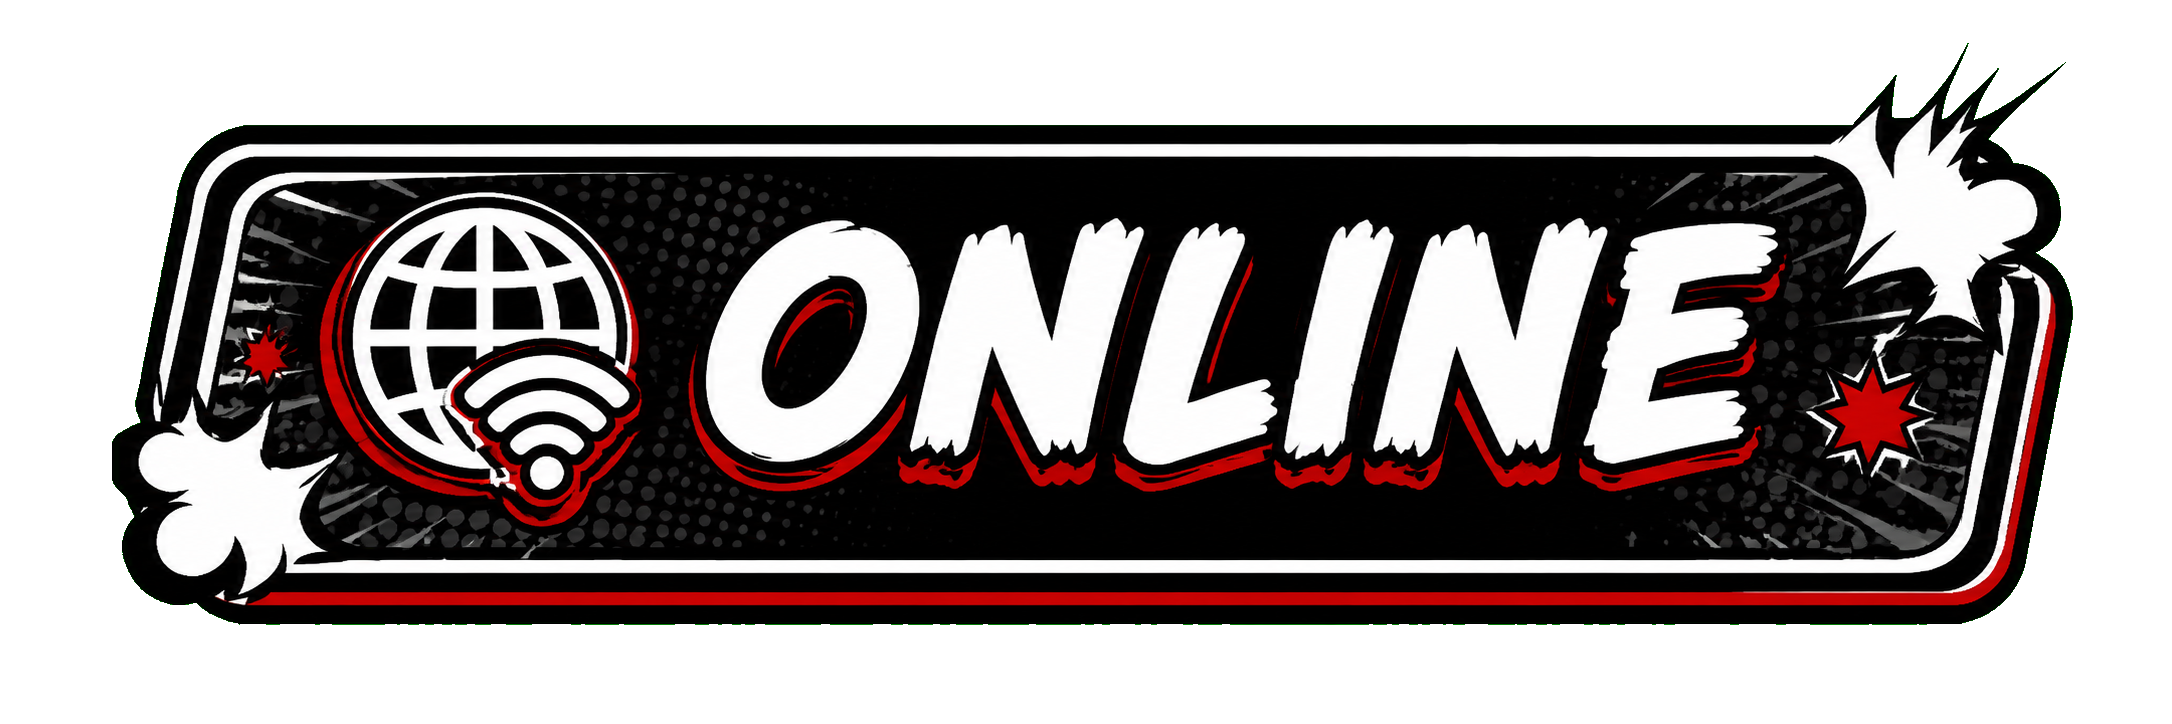
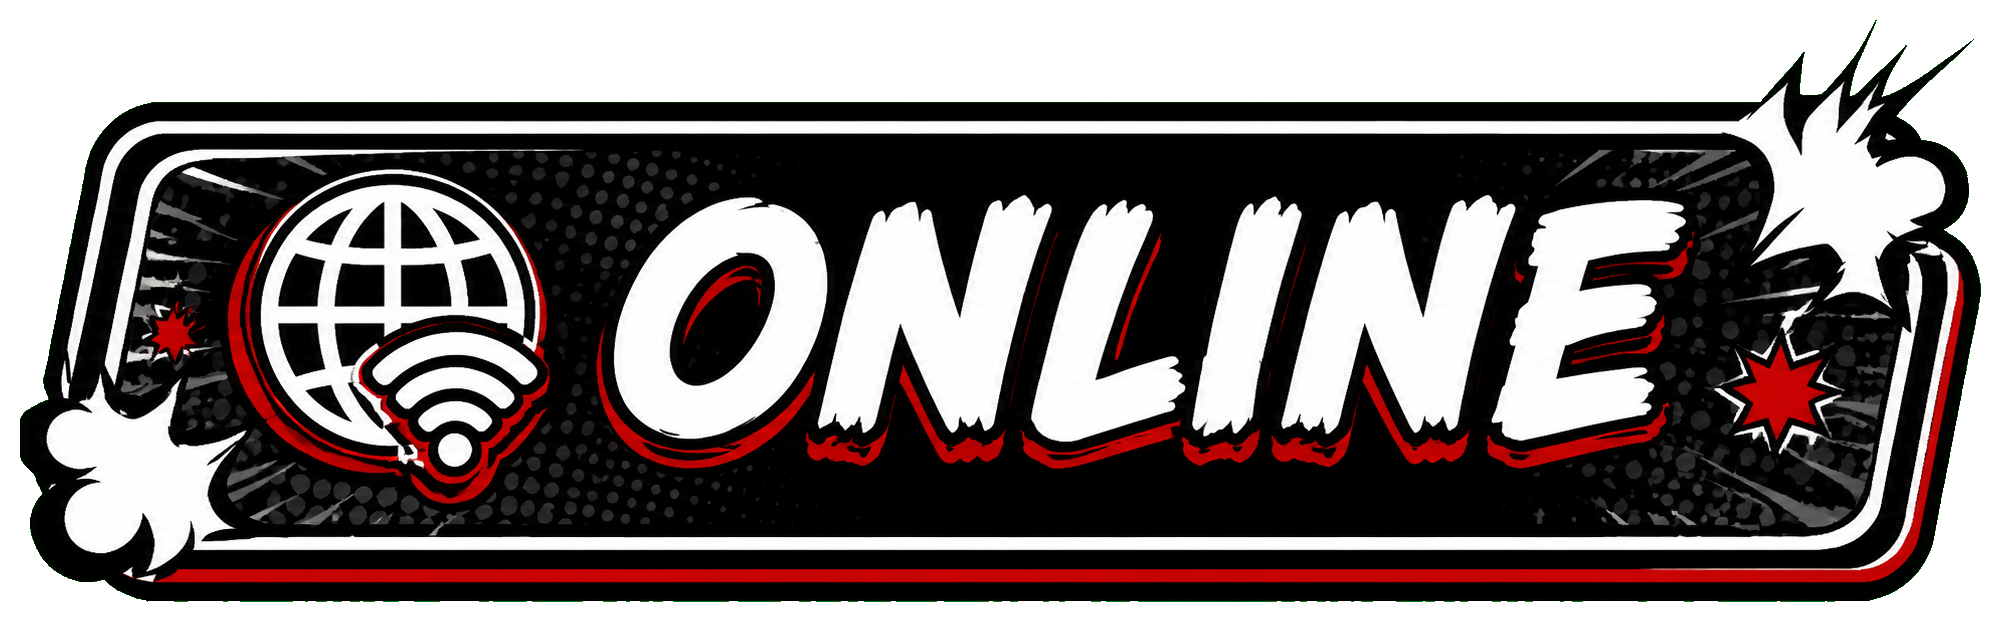
fix(menu): tighten online button spacing

diff --git a/prototype/mobile-layout/index.html b/prototype/mobile-layout/index.html
@@ -27,7 +27,7 @@
         --arena-background: url("../../assets/backgrounds/city-street-arena-sunny.webp?v=20260609-sunny");
         --title-screen-art: url("../../assets/backgrounds/title-screen-fighters.webp?v=20260605-1340");
         --menu-button-play: url("../../assets/ui/menu/jogar.webp?v=20260605-1340");
-        --menu-button-online: url("../../assets/ui/menu/online.png?v=20260609-1650");
+        --menu-button-online: url("../../assets/ui/menu/online.png?v=20260609-1714");
         --menu-button-help: url("../../assets/ui/menu/ajuda.webp?v=20260605-1340");
         --menu-button-options: url("../../assets/ui/menu/opcoes.webp?v=20260605-1340");
         --menu-button-exit: url("../../assets/ui/menu/sair.webp?v=20260605-1340");
@@ -1725,7 +1725,7 @@
       }
 
       #onlineButton {
-        aspect-ratio: 2048 / 913;
+        aspect-ratio: 2001 / 622;
         background-image: var(--menu-button-online);
       }
 